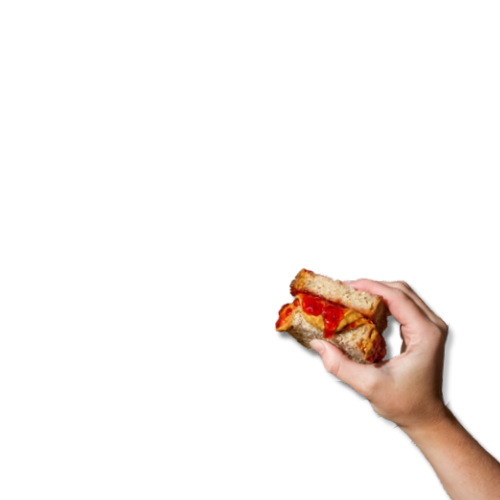
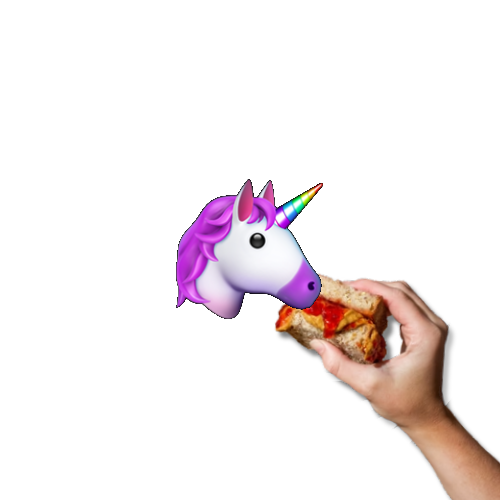
dark and dingy realms where its mostly just pvp and scammers lurking around every corner

Changed region(s): [[0.33, 0.36, 0.66, 0.66]]

diff --git a/src/config/config.ts b/src/config/config.ts
@@ -9,7 +9,7 @@ const config: WormholeConnectConfig = {
         wormchain: "https://wormchain-rpc.polkachu.com/",
     },
 
-    tokens: ["PBJ", "SOL", "WSOL"],
+    tokens: ["PBJ", "SOL", "WSOL", "UWU"],
     tokensConfig: {
         PBJ: {
             key: "PBJ",
@@ -21,6 +21,20 @@ const config: WormholeConnectConfig = {
             },
             coinGeckoId: "",
             icon: "https://ipfs.io/ipfs/QmY6bPur4fJTpzbF3FHh7Xq1bpipi2QFGGyk3QKjEtCfQL",
+            decimals: {
+                default: 6,
+            },
+        },
+        UWU: {
+            key: "UWU",
+            symbol: "UWU",
+            nativeChain: "solana",
+            tokenId: {
+                chain: "solana",
+                address: "UwU8RVXB69Y6Dcju6cN2Qef6fykkq6UUNpB15rZku6Z",
+            },
+            coinGeckoId: "unicorn-3",
+            icon: "https://i.degencdn.com/ipfs/bafkreibivgcck3ig7bo4edrykpmsds2a7424oys2ldyj2vief6b5nayq7q",
             decimals: {
                 default: 6,
             },
